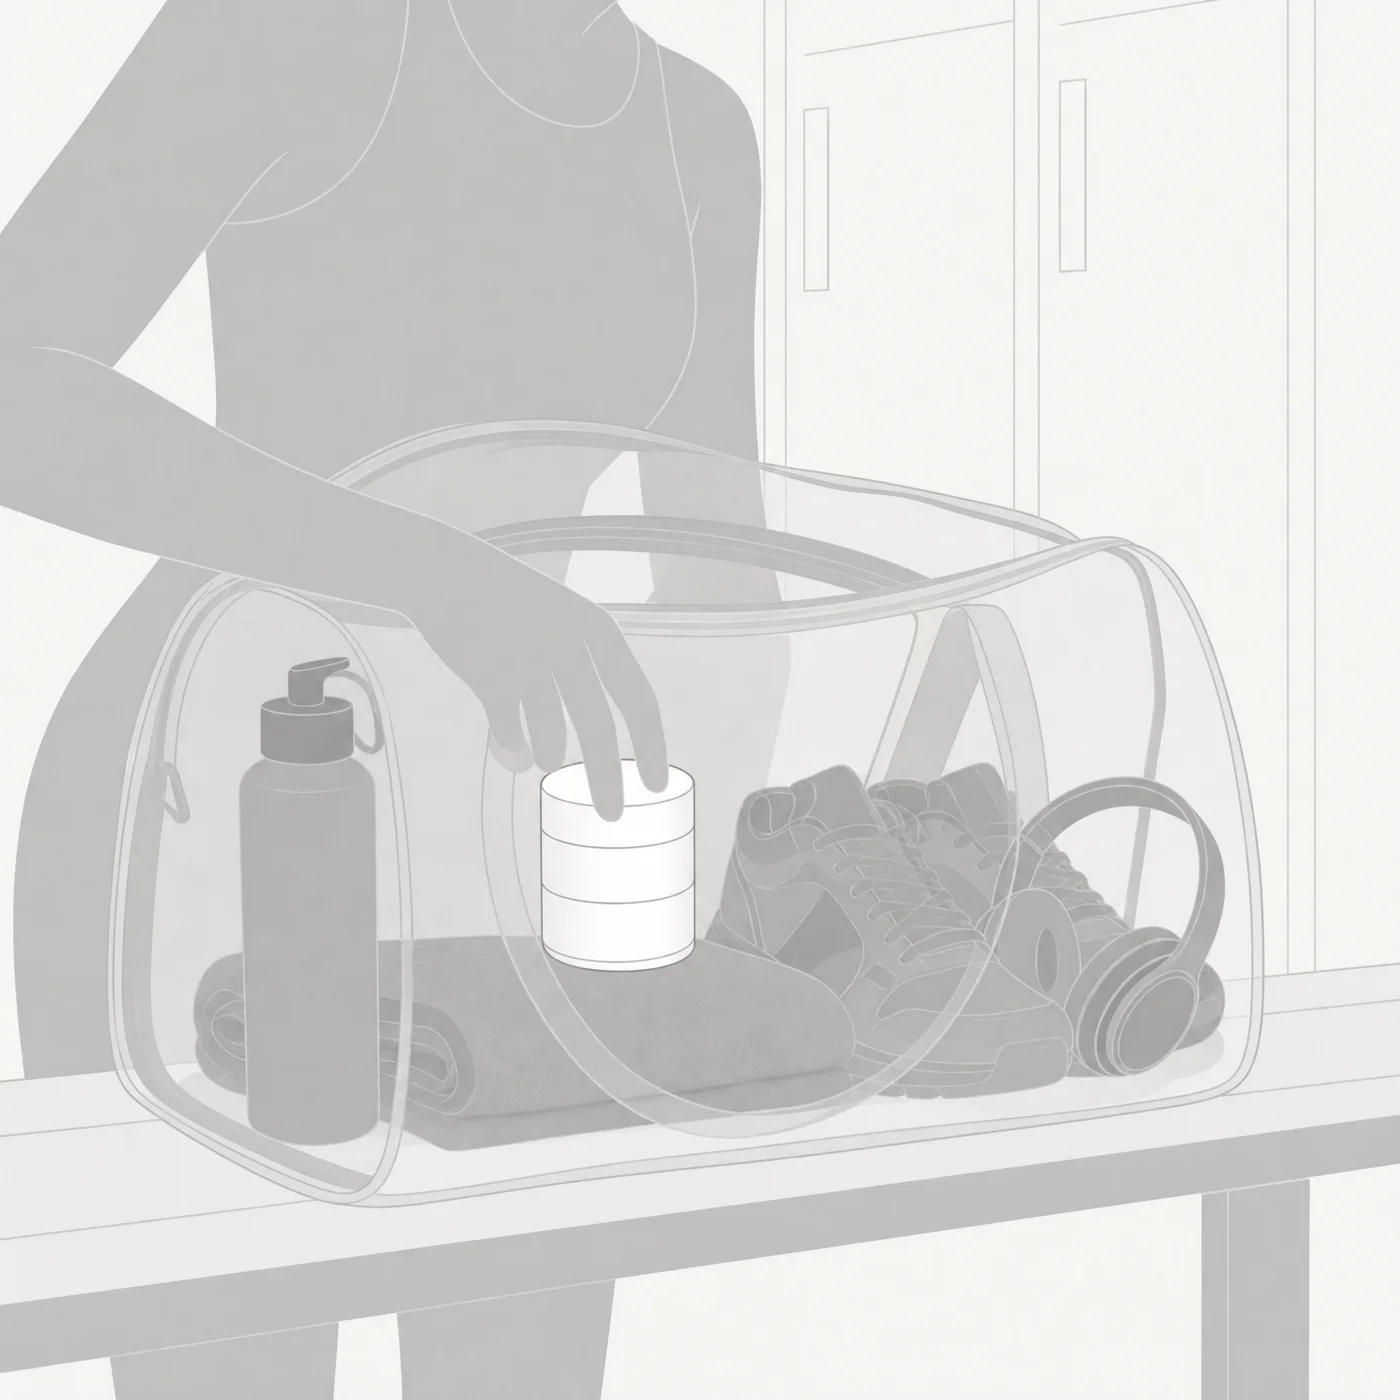
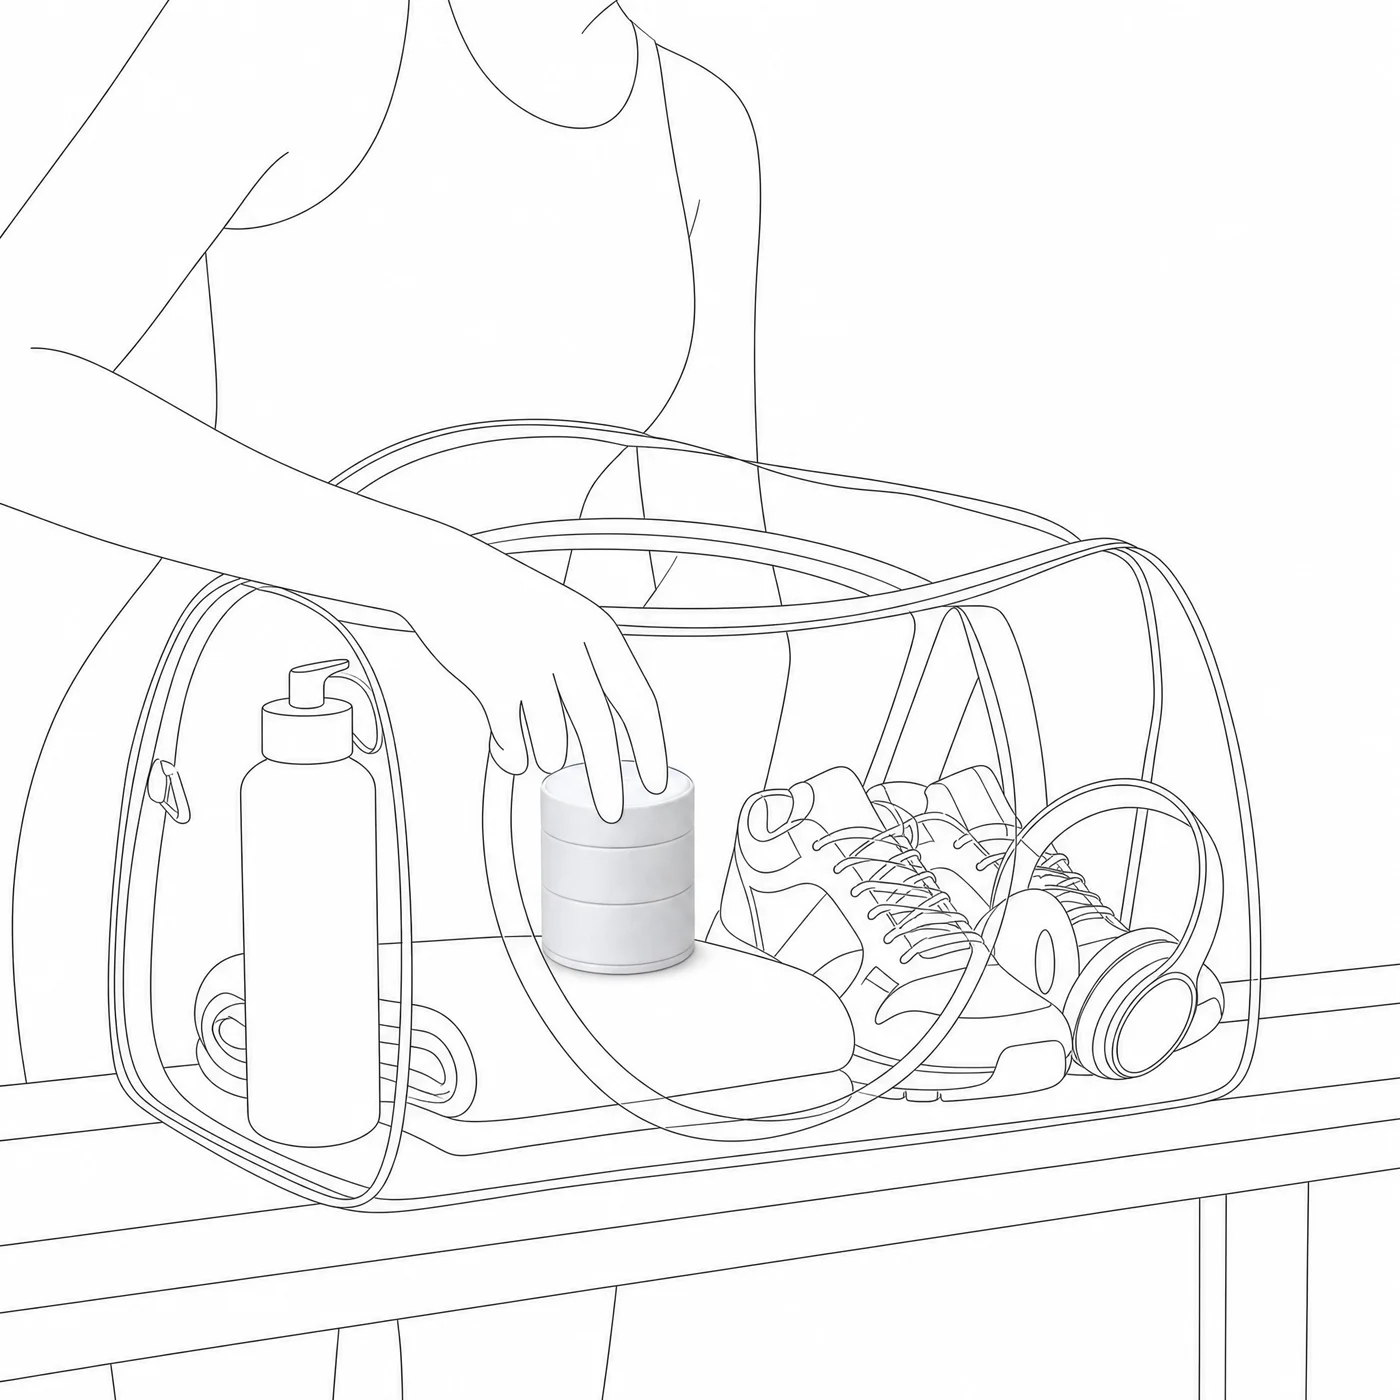
infinity: illustrations au trait noir, seule la boîte en blanc

diff --git a/app/infinity/route.ts b/app/infinity/route.ts
@@ -287,12 +287,12 @@ footer img{width:96px;opacity:.9}
 <section id="partout">
   <div class="tete rv"><div class="k">Infinity vous accompagne</div><h2 class="big">Votre mood.<br>Partout. <em>À l’infini.</em></h2></div>
   <div class="edito">
-    <figure class="e1 rv"><img src="/infinity/vie/sac-a-main.webp" alt="Infinity dans un sac à main" loading="lazy"><figcaption><b>Dans votre sac</b>LE QUOTIDIEN</figcaption></figure>
-    <figure class="e2 rv"><img src="/infinity/vie/valise.webp?v=3" alt="Infinity dans une valise" loading="lazy"><figcaption><b>Dans la valise</b>LES VACANCES</figcaption></figure>
-    <figure class="e3 rv"><img src="/infinity/vie/trousse.webp" alt="Infinity dans une trousse de toilette" loading="lazy"><figcaption><b>Dans la trousse</b>LE WEEK-END</figcaption></figure>
-    <figure class="e4 rv"><img src="/infinity/vie/coiffeuse.webp" alt="Infinity sur une coiffeuse" loading="lazy"><figcaption><b>Sur la coiffeuse</b>VOTRE COLLECTION</figcaption></figure>
-    <figure class="e5 rv"><img src="/infinity/vie/table-de-nuit.webp" alt="Infinity sur une table de nuit" loading="lazy"><figcaption><b>Sur la table de nuit</b>CHAQUE MATIN</figcaption></figure>
-    <figure class="e6 rv"><img src="/infinity/vie/sac-de-sport.webp" alt="Infinity dans un sac de sport" loading="lazy"><figcaption><b>Dans le sac de sport</b>L’ENTRAÎNEMENT</figcaption></figure>
+    <figure class="e1 rv"><img src="/infinity/vie/sac-a-main.webp?v=4" alt="Infinity dans un sac à main" loading="lazy"><figcaption><b>Dans votre sac</b>LE QUOTIDIEN</figcaption></figure>
+    <figure class="e2 rv"><img src="/infinity/vie/valise.webp?v=4" alt="Infinity dans une valise" loading="lazy"><figcaption><b>Dans la valise</b>LES VACANCES</figcaption></figure>
+    <figure class="e3 rv"><img src="/infinity/vie/trousse.webp?v=4" alt="Infinity dans une trousse de toilette" loading="lazy"><figcaption><b>Dans la trousse</b>LE WEEK-END</figcaption></figure>
+    <figure class="e4 rv"><img src="/infinity/vie/coiffeuse.webp?v=4" alt="Infinity sur une coiffeuse" loading="lazy"><figcaption><b>Sur la coiffeuse</b>VOTRE COLLECTION</figcaption></figure>
+    <figure class="e5 rv"><img src="/infinity/vie/table-de-nuit.webp?v=4" alt="Infinity sur une table de nuit" loading="lazy"><figcaption><b>Sur la table de nuit</b>CHAQUE MATIN</figcaption></figure>
+    <figure class="e6 rv"><img src="/infinity/vie/sac-de-sport.webp?v=4" alt="Infinity dans un sac de sport" loading="lazy"><figcaption><b>Dans le sac de sport</b>L’ENTRAÎNEMENT</figcaption></figure>
   </div>
 </section>
 
